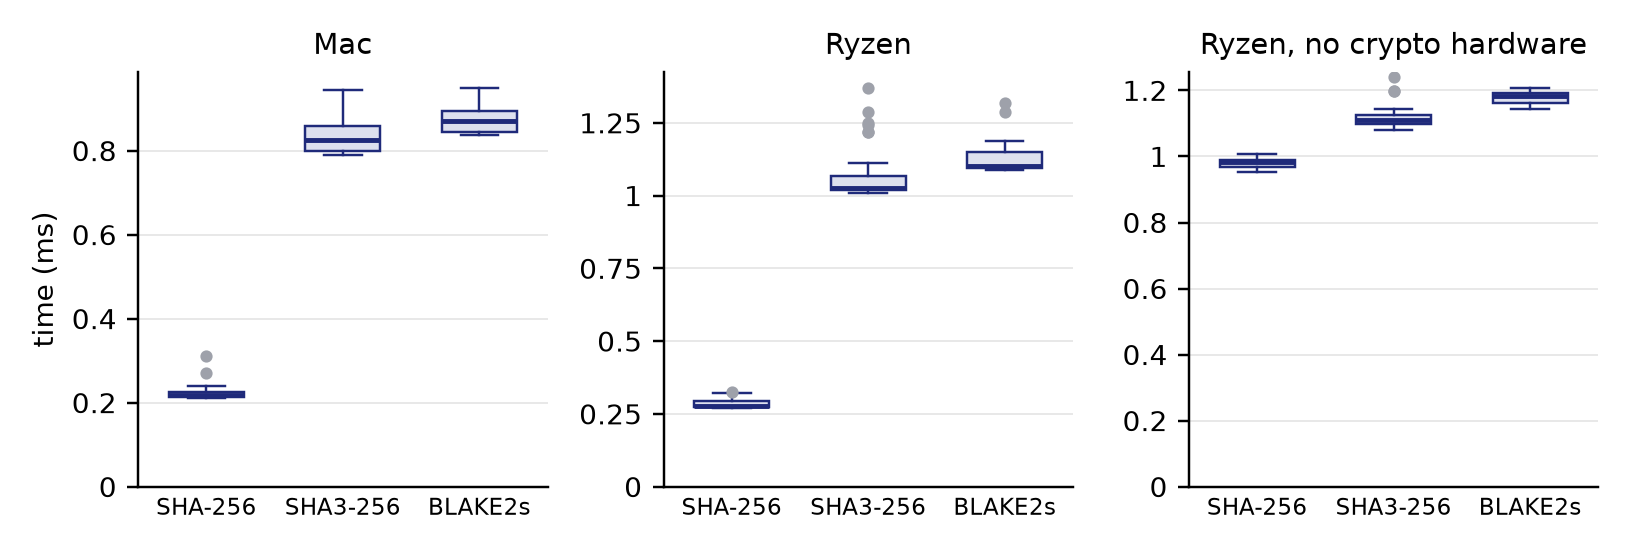
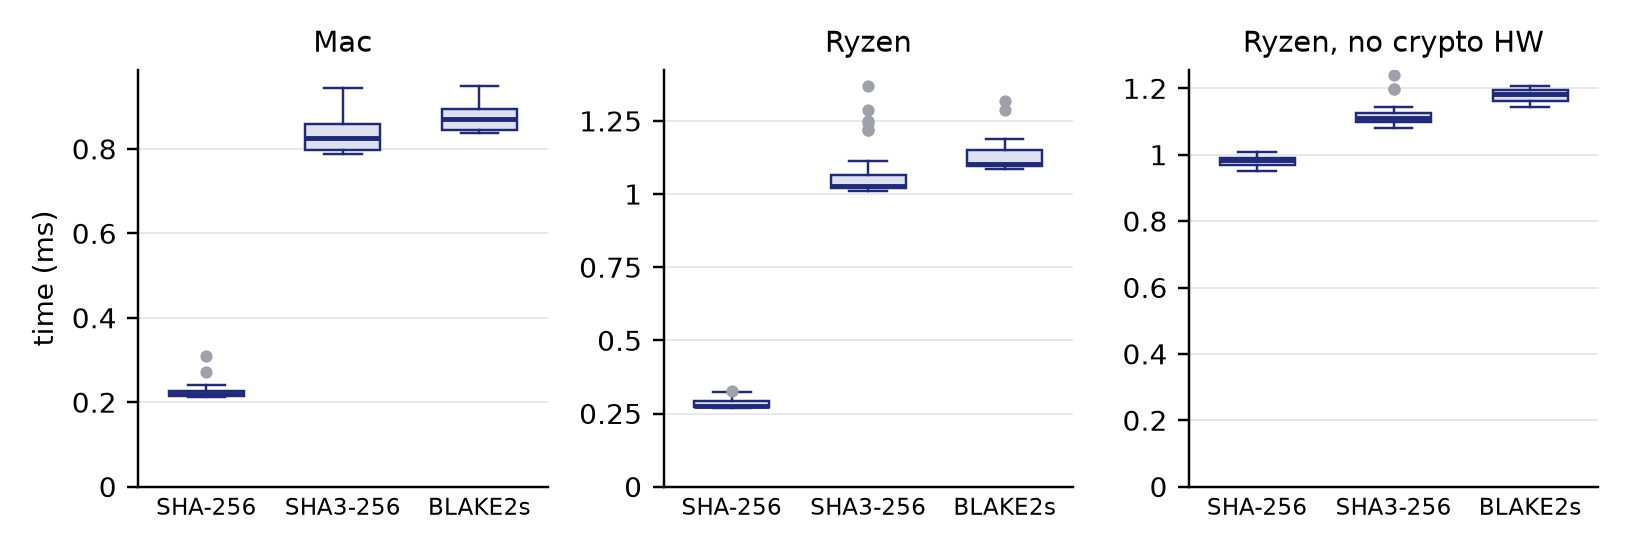
Match setup name in charts to tables

diff --git a/analyze.py b/analyze.py
@@ -94,7 +94,7 @@ def analyse(df):
     return "\n".join(lines)
 
 
-SETUP_NAMES = {"mac-m-series": "Mac", "omen-ryzen": "Ryzen", "omen-no-crypto-hw": "Ryzen, no crypto hardware"}
+SETUP_NAMES = {"mac-m-series": "Mac", "omen-ryzen": "Ryzen", "omen-no-crypto-hw": "Ryzen, no crypto HW"}
 SHORT = {"AES-128-GCM": "AES-GCM", "ChaCha20-Poly1305": "ChaCha20", "3DES-CBC": "3DES",
          "RSA-2048": "RSA", "ECDSA-P256": "ECDSA"}
 ACCENT, GREY = "#1F2A7A", "#9EA1AA"
